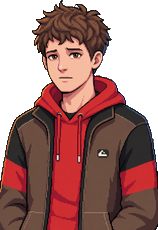
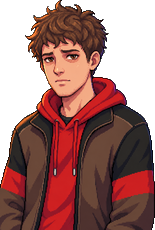
Art: promote candidate 4 (no brand mark) as provisional protagonist portrait

diff --git a/docs/03-build-log.md b/docs/03-build-log.md
@@ -316,3 +316,4 @@ contract relies on (`Session.dispatch` uses it).
 - **Transparency, solved on our side:** the model paints checkerboards more often than it uses alpha and ignored the flat-key fallback. `img.gd --auto-bg` now flood-fills the background from the border (up to two colours estimated from the top edge, so a bust cut at the bottom edge is safe) — recovers checkerboard renders in ~1.5 s with no Codex call. Applied to every transparent asset automatically.
 
 - **Promoted (provisional, orchestrator's eye — Codex judge unavailable):** `char/you_neutral` = the r2 render recovered via `--auto-bg` (158×230, real alpha). Visibly closer to the target than the 66-point r1 (younger, compact hair, simpler rendering). Known flaw: a small brand-like chest mark → regenerate with the sharpened prompt when Codex returns, then re-judge. r1 kept as `art/raw/char/you_neutral-r1.png`.
+- **Re-promoted:** the very first session's candidate 4 (`art/raw/char/you_neutral.png`, 155×230 after `--auto-bg`) replaces r2 as the provisional portrait — same likeness, no brand mark, softer clusters. r2 kept as `you_neutral-r2.png`. Codex re-judge pending the spend cap.
